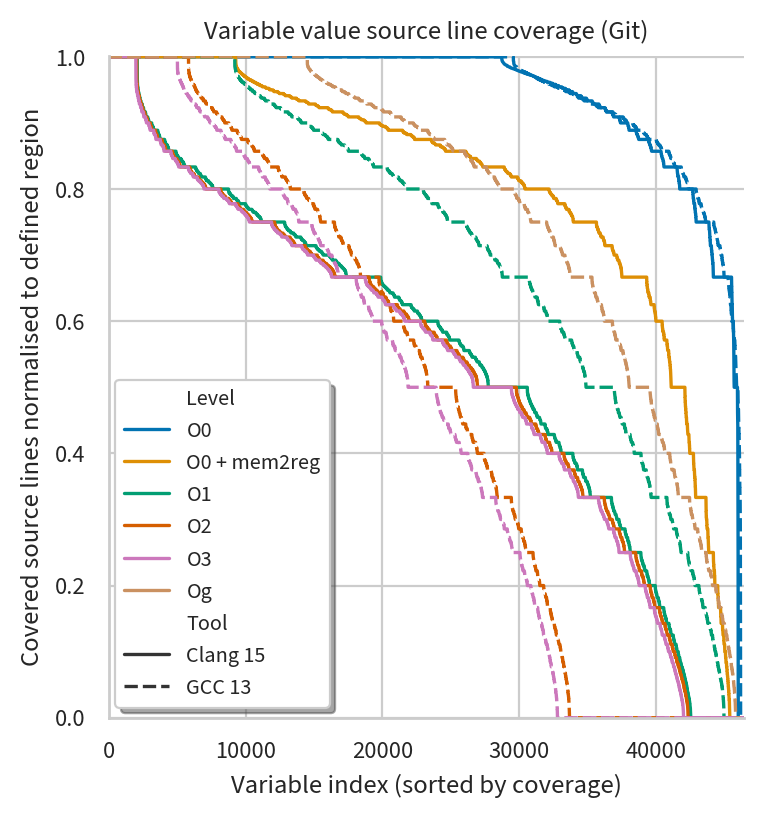
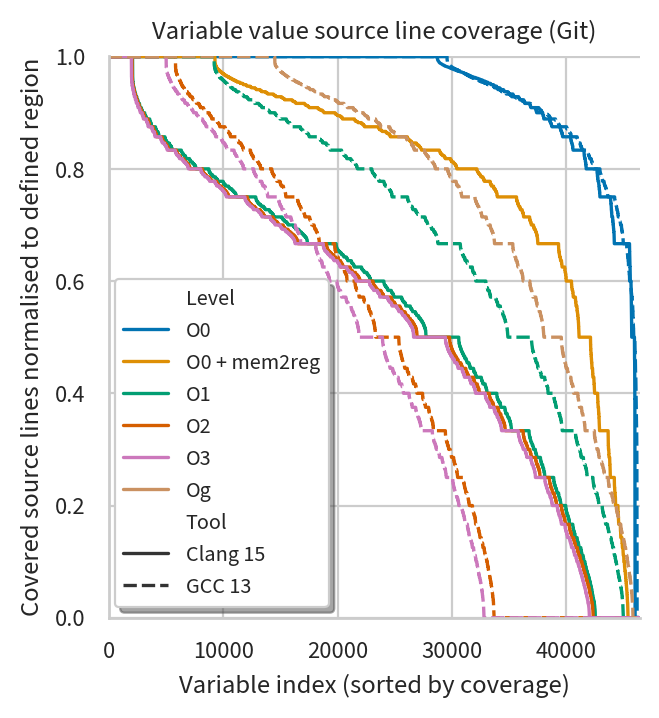
Rework optimisation levels figure to remove scale factor

diff --git a/data/shared/package_plots.py b/data/shared/package_plots.py
@@ -234,12 +234,12 @@ def coverage_by_optimisation_level(df):
     hue="Level",
     kind="line",
     style="Tool",
-    height=4,
+    height=3.5,
   )
   sns.move_legend(
     g,
     "lower left",
-    bbox_to_anchor=(0.145, 0.135),
+    bbox_to_anchor=(0.165, 0.155),
     fontsize="small",
     frameon=True,
     shadow=True,
